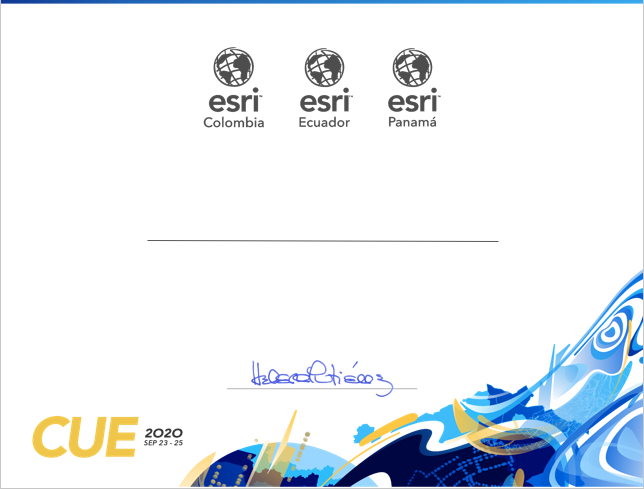
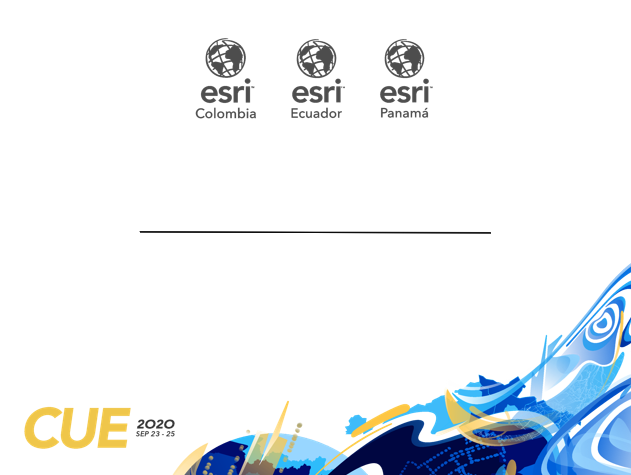
diseño mapa

diff --git a/certificado/src/components/js/generarpdf.jsx b/certificado/src/components/js/generarpdf.jsx
@@ -1,6 +1,7 @@
 import React from 'react';
 import '../css/generar.css';
-import pic from "../img/Cue2020.PNG";
+import pic from "../img/Cue2020.png";
+import cuemap  from "../img/Cuemap2020.png"
 import ReactDOM, { render } from "react-dom";
 import 'bootstrap/dist/css/bootstrap.min.css';
 import { Page, Text, View, Document, StyleSheet,Image, PDFViewer, PDFDownloadLink} from '@react-pdf/renderer';
@@ -56,7 +57,7 @@ class Generar extends React.Component {
   if(evento == "CUE2020Mapas"){
     asistencia = "En el marco de la Conferencia de Usuarios Esri 2020, participó en la Galería de mapas con el mapa:"
     evento = items.mapa
-    imagen=pic
+    imagen=cuemap
   }
   if(evento == "Evento Cucuta 2019"){
     imagen=pic
@@ -83,12 +84,11 @@ class Generar extends React.Component {
     <Text > </Text>
     <Text style={{fontSize:"12"}}>{asistencia}</Text>
     <Text  style={{fontSize:"17"}}>{evento} </Text>
-    <Text  style={{fontSize:"10"}}>BOGOTA  OCTUBRE 2020 </Text>
+    <Text  style={{fontSize:"10"}}>BOGOTA  OCTUBRE 25 de 2020 </Text>
     <Text>  </Text>
-                        {/* <Image src={firma} style={styles.view} alt="images" /> */}
+    <Text >  </Text>
+                        <Image src={firma} style={styles.view} alt="images" />
      
-    <Text >  </Text>
-    <Text >  </Text>
     <Text >  </Text>               
     <Text style={{fontSize:"12"}}>Helena Gutiérres  </Text>
     <Text style={{fontSize:"12"}}>Presidente  </Text>
